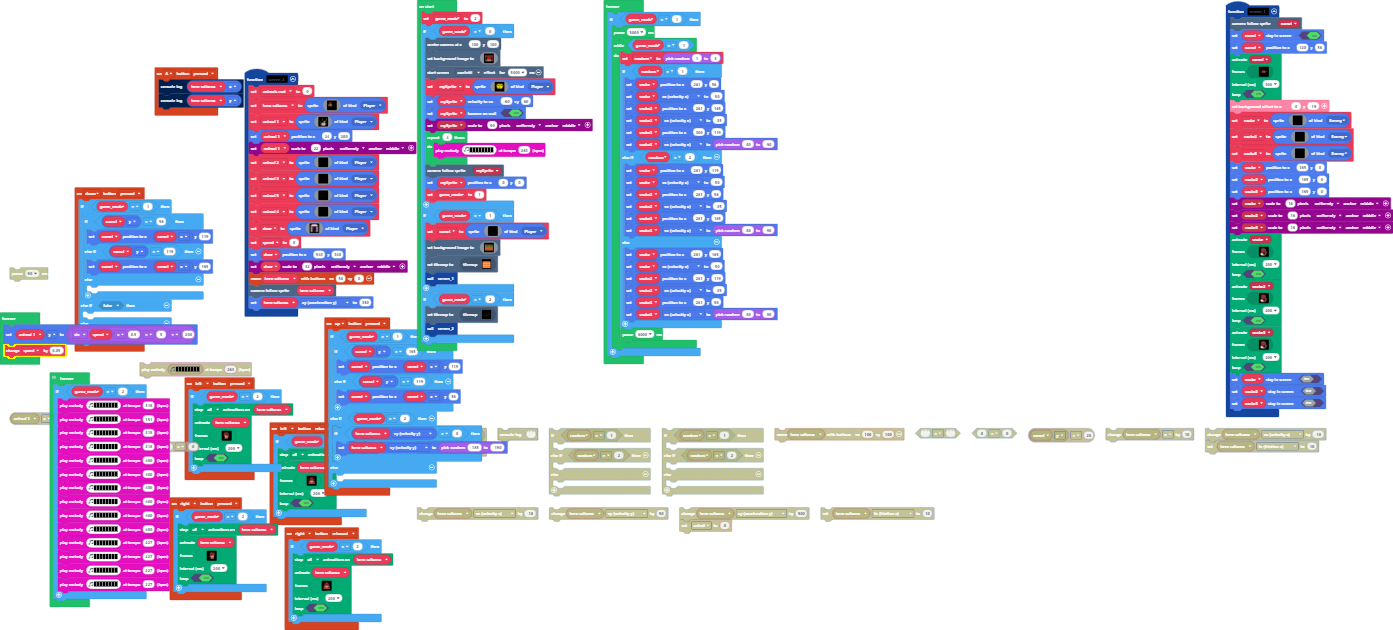
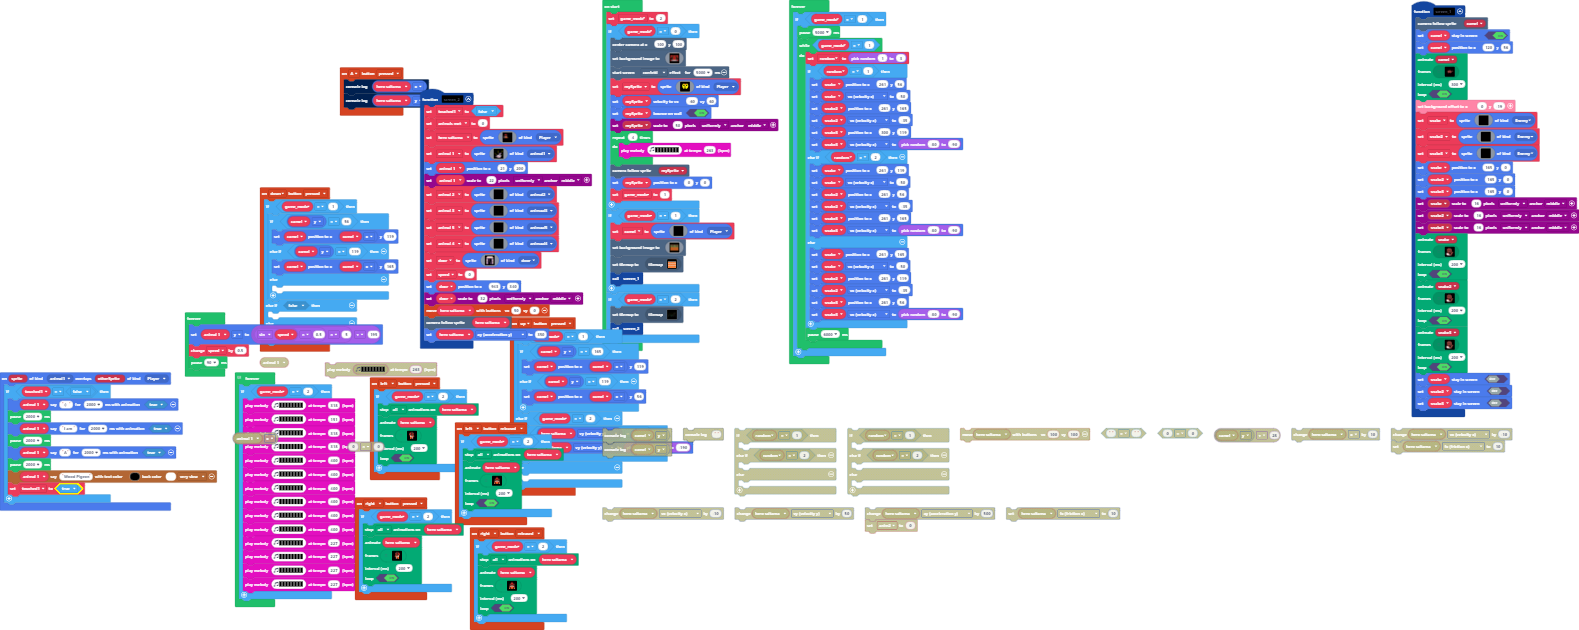
made complex vars

diff --git a/main.ts b/main.ts
@@ -1,3 +1,11 @@
+namespace SpriteKind {
+    export const animaal4 = SpriteKind.create()
+    export const animaal5 = SpriteKind.create()
+    export const animaal3 = SpriteKind.create()
+    export const door = SpriteKind.create()
+    export const animal2 = SpriteKind.create()
+    export const animal1 = SpriteKind.create()
+}
 function screen_1 () {
     scene.cameraFollowSprite(camel)
     camel.setStayInScreen(true)
@@ -169,7 +177,20 @@ controller.down.onEvent(ControllerButtonEvent.Pressed, function () {
     	
     }
 })
+sprites.onOverlap(SpriteKind.animal1, SpriteKind.Player, function (sprite, otherSprite) {
+    if (touched1 == false) {
+        animal_1.sayText(":)", 2000, true)
+        pause(2000)
+        animal_1.sayText("I am", 2000, true)
+        pause(2000)
+        animal_1.sayText("A", 2000, true)
+        pause(2000)
+        story.spriteSayText(animal_1, "Wood Pigeon", 15, 1, story.TextSpeed.VerySlow)
+        touched1 = true
+    }
+})
 function screen_2 () {
+    touched1 = false
     animals_met = 0
     hero_saitama = sprites.create(img`
         ........................
@@ -230,8 +251,8 @@ function screen_2 () {
         ......fffbbddddbccddbccc........
         .........fffbbc333bb333c........
         ...........fff3cc33cc33c........
-        `, SpriteKind.Player)
-    animal_1.setPosition(24, 200)
+        `, SpriteKind.animal1)
+    animal_1.setPosition(21, 200)
     scaling.scaleToPixels(animal_1, 22, ScaleDirection.Uniformly, ScaleAnchor.Middle)
     animal_2 = sprites.create(img`
         . . . . . . . . . . . . . . . . 
@@ -250,7 +271,7 @@ function screen_2 () {
         . . . . . . . . . . . . . . . . 
         . . . . . . . . . . . . . . . . 
         . . . . . . . . . . . . . . . . 
-        `, SpriteKind.Player)
+        `, SpriteKind.animal2)
     animal_3 = sprites.create(img`
         . . . . . . . . . . . . . . . . 
         . . . . . . . . . . . . . . . . 
@@ -268,7 +289,7 @@ function screen_2 () {
         . . . . . . . . . . . . . . . . 
         . . . . . . . . . . . . . . . . 
         . . . . . . . . . . . . . . . . 
-        `, SpriteKind.Player)
+        `, SpriteKind.animaal3)
     animal_5 = sprites.create(img`
         . . . . . . . . . . . . . . . . 
         . . . . . . . . . . . . . . . . 
@@ -286,7 +307,7 @@ function screen_2 () {
         . . . . . . . . . . . . . . . . 
         . . . . . . . . . . . . . . . . 
         . . . . . . . . . . . . . . . . 
-        `, SpriteKind.Player)
+        `, SpriteKind.animaal5)
     animal_4 = sprites.create(img`
         . . . . . . . . . . . . . . . . 
         . . . . . . . . . . . . . . . . 
@@ -304,8 +325,8 @@ function screen_2 () {
         . . . . . . . . . . . . . . . . 
         . . . . . . . . . . . . . . . . 
         . . . . . . . . . . . . . . . . 
-        `, SpriteKind.Player)
-    door = sprites.create(assets.image`Door`, SpriteKind.Player)
+        `, SpriteKind.animaal4)
+    door = sprites.create(assets.image`Door`, SpriteKind.door)
     speed = 0
     door.setPosition(943, 340)
     scaling.scaleToPixels(door, 32, ScaleDirection.Uniformly, ScaleAnchor.Middle)
@@ -320,8 +341,9 @@ let animal_4: Sprite = null
 let animal_5: Sprite = null
 let animal_3: Sprite = null
 let animal_2: Sprite = null
-let animal_1: Sprite = null
 let animals_met = 0
+let animal_1: Sprite = null
+let touched1 = false
 let hero_saitama: Sprite = null
 let snake3: Sprite = null
 let snake2: Sprite = null
@@ -663,8 +685,9 @@ forever(function () {
     }
 })
 forever(function () {
-    animal_1.y = Math.sin(speed) * 0.5 * 5 + 200
-    speed += 0.05
+    animal_1.y = Math.sin(speed) * 0.5 * 5 + 195
+    speed += 0.5
+    pause(90)
 })
 // Wow!
 // Yeah i know i am a musician _vedansh
